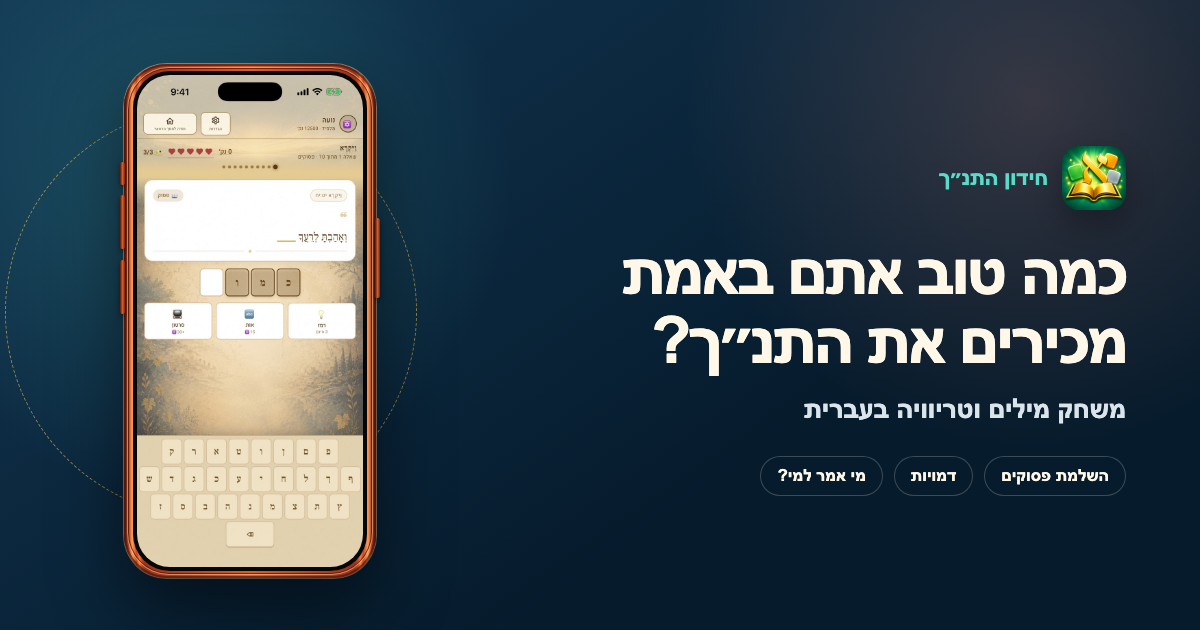
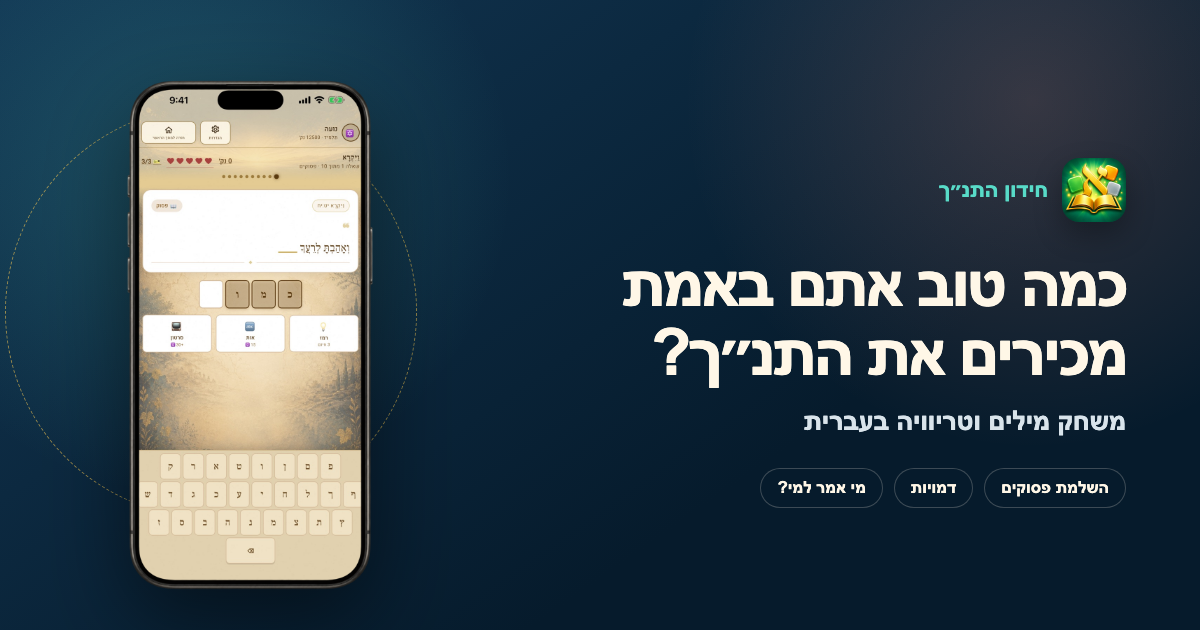
Replace Tanakh Quiz hero with realistic iPhone frame

diff --git a/tanakh-quiz/index.html b/tanakh-quiz/index.html
@@ -166,7 +166,7 @@ h1{
   transition:transform .16s ease,filter .16s ease;
 }
 .store-badge:hover{transform:translateY(-3px);filter:brightness(1.08)}
-.store-badge:focus-visible,.text-link:focus-visible,.site-nav a:focus-visible,.brand:focus-visible,.answer:focus-visible,.carousel-button:focus-visible,.carousel-dot:focus-visible{
+.store-badge:focus-visible,.text-link:focus-visible,.site-nav a:focus-visible,.brand:focus-visible,.answer:focus-visible{
   outline:3px solid var(--coral);
   outline-offset:4px;
 }
@@ -190,38 +190,33 @@ h1{
 .app-carousel{
   position:relative;
   z-index:2;
-  display:grid;
-  justify-items:center;
-  width:min(310px,76vw);
+  width:min(340px,80vw);
 }
-.iphone-shell{
+.app-carousel:focus-visible{outline:3px solid var(--coral);outline-offset:9px;border-radius:42px}
+.iphone-device{
   position:relative;
   width:100%;
-  aspect-ratio:49/100;
-  border-radius:17% / 8.35%;
-  background:
-    linear-gradient(90deg,#47150c 0%,#a83d19 1.7%,#ff9c59 3.2%,#c74a20 5%,#f17a38 6.2%,#c2481f 7.1%,#9a3218 8.3%,#d95d29 50%,#9a3218 91.7%,#c2481f 92.9%,#f17a38 93.8%,#c74a20 95%,#ff9c59 96.8%,#a83d19 98.3%,#47150c 100%);
-  box-shadow:0 34px 72px rgba(0,0,0,.45),0 0 0 1px rgba(255,190,137,.56),inset 0 0 0 2px rgba(78,22,10,.7);
-  isolation:isolate;
+  aspect-ratio:15/32;
+  filter:drop-shadow(0 34px 48px rgba(0,0,0,.5));
 }
-.iphone-shell::before{
-  content:"";
+.iphone-frame{
   position:absolute;
-  z-index:4;
-  inset:3px;
-  border:1px solid rgba(255,214,177,.5);
-  border-radius:inherit;
-  box-shadow:inset 0 0 0 1px rgba(71,20,9,.72),inset 0 0 15px rgba(255,180,110,.18);
+  z-index:3;
+  inset:0;
+  width:100%;
+  height:100%;
+  max-width:none;
+  object-fit:fill;
   pointer-events:none;
 }
 .iphone-screen{
   position:absolute;
   z-index:2;
-  inset:2.2% 5.102%;
+  inset:3.451% 4.167% 3.19%;
   overflow:hidden;
   border-radius:14.545% / 6.695%;
   background:#080808;
-  box-shadow:0 0 0 4px #050608,inset 0 0 14px rgba(0,0,0,.7);
+  box-shadow:inset 0 0 12px rgba(0,0,0,.3);
 }
 .device-slide{
   position:absolute;
@@ -233,47 +228,6 @@ h1{
 }
 .device-slide.is-active{opacity:1;visibility:visible}
 .device-slide img{width:100%;height:100%;object-fit:fill}
-.phone-button{
-  position:absolute;
-  z-index:1;
-  width:5px;
-  border-radius:3px;
-  background:linear-gradient(90deg,#4d180d,#db5d2a 52%,#6f2412);
-  box-shadow:0 2px 5px rgba(0,0,0,.45);
-}
-.phone-button--action{inset:19% auto auto -4px;height:4.6%}
-.phone-button--up{inset:25.5% auto auto -4px;height:10.5%}
-.phone-button--down{inset:38.2% auto auto -4px;height:10.5%}
-.phone-button--power{inset:30% -4px auto auto;height:15.5%}
-.slide-caption{
-  min-height:1.6em;
-  margin:15px 0 7px;
-  color:var(--cream-2);
-  font-size:.92rem;
-  font-weight:750;
-  text-align:center;
-}
-.carousel-controls{display:flex;align-items:center;justify-content:center;gap:7px;direction:rtl;width:max-content;max-width:calc(100vw - 36px);flex-wrap:wrap}
-.carousel-button,.carousel-dot{
-  display:inline-grid;
-  place-items:center;
-  min-width:44px;
-  min-height:44px;
-  padding:0;
-  border:1px solid rgba(255,247,231,.25);
-  border-radius:999px;
-  background:rgba(6,27,44,.78);
-  color:var(--cream);
-  cursor:pointer;
-  line-height:1;
-  transition:background .16s ease,border-color .16s ease,transform .16s ease;
-}
-.carousel-button:hover,.carousel-dot:hover{border-color:var(--teal);background:var(--navy-3);transform:translateY(-1px)}
-.carousel-button:disabled{cursor:default;opacity:.5;transform:none}
-.carousel-dots{display:flex;align-items:center;gap:3px}
-.carousel-dot::before{content:"";width:8px;height:8px;border-radius:50%;background:var(--muted)}
-.carousel-dot[aria-current="true"]::before{width:20px;background:var(--gold)}
-.carousel-dot[aria-current="true"]{border-color:rgba(244,197,82,.6)}
 .mode-strip{
   display:grid;
   grid-template-columns:repeat(4,minmax(0,1fr));
@@ -442,7 +396,7 @@ h1{
   .hero{grid-template-columns:1fr;min-height:auto;text-align:center}
   .hero-copy{display:flex;flex-direction:column;align-items:center}
   .store-row{justify-content:center}
-  .app-carousel{width:min(286px,72vw)}
+  .app-carousel{width:min(310px,76vw)}
   .proof-grid,.content-grid{grid-template-columns:1fr}
   .proof-copy{max-width:720px;margin:0 auto;text-align:center}
   .check-list{display:inline-grid;text-align:start}
@@ -455,11 +409,9 @@ h1{
   .site-header{padding-inline:15px}
   .brand span{display:none}
   .hero{padding-inline:18px}
-  .app-carousel{width:min(246px,72vw)}
+  .app-carousel{width:min(280px,80vw)}
   .orbit-one{width:290px;height:290px}
   .orbit-two{width:350px;height:350px}
-  .slide-caption{font-size:.86rem}
-  .carousel-controls{gap:3px}
   .mode-strip{grid-template-columns:repeat(2,minmax(0,1fr))}
   .mode{min-height:132px;padding:17px 12px}
   .answers{grid-template-columns:1fr}
@@ -493,10 +445,6 @@ h1{
   .download .store-badge,.download .store-badge img{width:100%;height:auto;max-height:58px;object-fit:contain}
   .site-footer{flex-direction:column;align-items:center;text-align:center}
   .site-footer div{justify-content:center}
-}
-@media(max-width:390px){
-  .carousel-controls{max-width:270px;flex-wrap:wrap}
-  .carousel-dots{flex-basis:100%;justify-content:center}
 }
 @media(prefers-reduced-motion:reduce){
   html{scroll-behavior:auto}
@@ -541,44 +489,27 @@ h1{
       <div class="phone-stage">
         <span class="orbit orbit-one" aria-hidden="true"></span>
         <span class="orbit orbit-two" aria-hidden="true"></span>
-        <div class="app-carousel" role="region" aria-roledescription="קרוסלה" aria-label="מסכים עדכניים מתוך חידון התנ״ך" data-app-carousel>
-          <div class="iphone-shell">
-            <span class="phone-button phone-button--action" aria-hidden="true"></span>
-            <span class="phone-button phone-button--up" aria-hidden="true"></span>
-            <span class="phone-button phone-button--down" aria-hidden="true"></span>
-            <span class="phone-button phone-button--power" aria-hidden="true"></span>
+        <div class="app-carousel" role="region" aria-roledescription="קרוסלה" aria-label="מסכים עדכניים מתוך חידון התנ״ך; המיקוד משהה את ההחלפה" tabindex="0" data-app-carousel>
+          <div class="iphone-device">
+            <img class="iphone-frame" src="/tanakh-quiz/assets/iphone-real-frame-v3.png" width="720" height="1536" alt="" fetchpriority="high" decoding="async">
             <div class="iphone-screen">
-              <figure class="device-slide is-active" role="group" aria-roledescription="שקופית" aria-label="1 מתוך 5" aria-hidden="false" data-caption="בחירת נושא, ספר ורמת קושי">
+              <figure class="device-slide is-active" role="group" aria-roledescription="שקופית" aria-label="1 מתוך 5" aria-hidden="false">
                 <img src="/tanakh-quiz/assets/ui-categories.jpg" width="660" height="1434" alt="מסך בחירת נושא וספר בחידון התנ״ך" fetchpriority="high" decoding="async">
               </figure>
-              <figure class="device-slide" role="group" aria-roledescription="שקופית" aria-label="2 מתוך 5" aria-hidden="true" data-caption="השלמת פסוקים ומשחקי מילים">
+              <figure class="device-slide" role="group" aria-roledescription="שקופית" aria-label="2 מתוך 5" aria-hidden="true">
                 <img src="/tanakh-quiz/assets/ui-gameplay.jpg" width="660" height="1434" alt="מסך השלמת פסוק בממשק החדש של חידון התנ״ך" decoding="async">
               </figure>
-              <figure class="device-slide" role="group" aria-roledescription="שקופית" aria-label="3 מתוך 5" aria-hidden="true" data-caption="תשובה מיידית, ניקוד והסבר">
-                <img src="/tanakh-quiz/assets/ui-correct.jpg" width="660" height="1434" loading="lazy" alt="מסך תשובה נכונה וניקוד בחידון התנ״ך" decoding="async">
+              <figure class="device-slide" role="group" aria-roledescription="שקופית" aria-label="3 מתוך 5" aria-hidden="true">
+                <img src="/tanakh-quiz/assets/ui-correct.jpg" width="660" height="1434" alt="מסך תשובה נכונה וניקוד בחידון התנ״ך" decoding="async">
               </figure>
-              <figure class="device-slide" role="group" aria-roledescription="שקופית" aria-label="4 מתוך 5" aria-hidden="true" data-caption="אתגר תנ״ך חדש בכל יום">
-                <img src="/tanakh-quiz/assets/ui-daily.jpg" width="660" height="1434" loading="lazy" alt="מסך האתגר היומי בחידון התנ״ך" decoding="async">
+              <figure class="device-slide" role="group" aria-roledescription="שקופית" aria-label="4 מתוך 5" aria-hidden="true">
+                <img src="/tanakh-quiz/assets/ui-daily.jpg" width="660" height="1434" alt="מסך האתגר היומי בחידון התנ״ך" decoding="async">
               </figure>
-              <figure class="device-slide" role="group" aria-roledescription="שקופית" aria-label="5 מתוך 5" aria-hidden="true" data-caption="טבלת מובילים ותחרות עם חברים">
-                <img src="/tanakh-quiz/assets/ui-leaderboard.jpg" width="660" height="1434" loading="lazy" alt="טבלת המובילים בחידון התנ״ך" decoding="async">
+              <figure class="device-slide" role="group" aria-roledescription="שקופית" aria-label="5 מתוך 5" aria-hidden="true">
+                <img src="/tanakh-quiz/assets/ui-leaderboard.jpg" width="660" height="1434" alt="טבלת המובילים בחידון התנ״ך" decoding="async">
               </figure>
             </div>
           </div>
-          <p class="slide-caption" data-carousel-caption>בחירת נושא, ספר ורמת קושי</p>
-          <div class="carousel-controls" aria-label="שליטה בתמונות האפליקציה">
-            <button class="carousel-button" type="button" data-carousel-toggle aria-label="השהיית החלפת התמונות" aria-pressed="false"><span data-carousel-toggle-icon aria-hidden="true">Ⅱ</span></button>
-            <button class="carousel-button" type="button" data-carousel-prev aria-label="צילום מסך קודם"><span aria-hidden="true">→</span></button>
-            <button class="carousel-button" type="button" data-carousel-next aria-label="צילום מסך הבא"><span aria-hidden="true">←</span></button>
-            <div class="carousel-dots" aria-label="בחירת צילום מסך">
-              <button class="carousel-dot" type="button" data-carousel-dot="0" aria-label="הצגת צילום מסך 1 מתוך 5" aria-current="true"></button>
-              <button class="carousel-dot" type="button" data-carousel-dot="1" aria-label="הצגת צילום מסך 2 מתוך 5"></button>
-              <button class="carousel-dot" type="button" data-carousel-dot="2" aria-label="הצגת צילום מסך 3 מתוך 5"></button>
-              <button class="carousel-dot" type="button" data-carousel-dot="3" aria-label="הצגת צילום מסך 4 מתוך 5"></button>
-              <button class="carousel-dot" type="button" data-carousel-dot="4" aria-label="הצגת צילום מסך 5 מתוך 5"></button>
-            </div>
-          </div>
-          <p class="sr-only" aria-live="polite" aria-atomic="true" data-carousel-status></p>
         </div>
       </div>
     </section>
@@ -734,36 +665,21 @@ h1{
   if (!carousel) return;
 
   var slides = Array.prototype.slice.call(carousel.querySelectorAll('.device-slide'));
-  var dots = Array.prototype.slice.call(carousel.querySelectorAll('[data-carousel-dot]'));
-  var caption = carousel.querySelector('[data-carousel-caption]');
-  var status = carousel.querySelector('[data-carousel-status]');
-  var toggle = carousel.querySelector('[data-carousel-toggle]');
-  var toggleIcon = carousel.querySelector('[data-carousel-toggle-icon]');
-  var previous = carousel.querySelector('[data-carousel-prev]');
-  var next = carousel.querySelector('[data-carousel-next]');
+  if (!slides.length) return;
   var motion = window.matchMedia('(prefers-reduced-motion: reduce)');
   var current = 0;
   var timer = 0;
-  var userPaused = false;
   var interactionPaused = false;
   var inView = true;
   var interval = 7000;
 
-  function showSlide(index,userInitiated){
+  function showSlide(index){
     current = (index + slides.length) % slides.length;
     slides.forEach(function(slide,slideIndex){
       var active = slideIndex === current;
       slide.classList.toggle('is-active',active);
       slide.setAttribute('aria-hidden',active ? 'false' : 'true');
     });
-    dots.forEach(function(dot,dotIndex){
-      if (dotIndex === current) dot.setAttribute('aria-current','true');
-      else dot.removeAttribute('aria-current');
-    });
-
-    var text = slides[current].getAttribute('data-caption') || '';
-    caption.textContent = text;
-    if (userInitiated) status.textContent = 'צילום ' + (current + 1) + ' מתוך ' + slides.length + ': ' + text;
   }
 
   function stop(){
@@ -773,52 +689,18 @@ h1{
   }
 
   function canPlay(){
-    return !motion.matches && !userPaused && !interactionPaused && inView && !document.hidden;
+    return slides.length > 1 && !motion.matches && !interactionPaused && inView && !document.hidden;
   }
 
   function schedule(){
     stop();
     if (!canPlay()) return;
     timer = window.setTimeout(function(){
-      showSlide(current + 1,false);
+      showSlide(current + 1);
       schedule();
     },interval);
   }
 
-  function updateToggle(){
-    if (motion.matches){
-      toggle.disabled = true;
-      toggle.setAttribute('aria-label','החלפת תמונות אוטומטית מושבתת לפי העדפת התנועה');
-      toggle.setAttribute('aria-pressed','false');
-      toggleIcon.textContent = '▶';
-      return;
-    }
-    toggle.disabled = false;
-    toggle.setAttribute('aria-pressed',userPaused ? 'true' : 'false');
-    toggle.setAttribute('aria-label',userPaused ? 'הפעלת החלפת התמונות' : 'השהיית החלפת התמונות');
-    toggleIcon.textContent = userPaused ? '▶' : 'Ⅱ';
-  }
-
-  function navigate(index){
-    userPaused = true;
-    stop();
-    updateToggle();
-    showSlide(index,true);
-  }
-
-  toggle.addEventListener('click',function(){
-    userPaused = !userPaused;
-    updateToggle();
-    schedule();
-  });
-  previous.addEventListener('click',function(){navigate(current - 1)});
-  next.addEventListener('click',function(){navigate(current + 1)});
-  dots.forEach(function(dot){
-    dot.addEventListener('click',function(){navigate(Number(dot.getAttribute('data-carousel-dot')))});
-  });
-
-  carousel.addEventListener('mouseenter',function(){interactionPaused = true;stop()});
-  carousel.addEventListener('mouseleave',function(){interactionPaused = false;schedule()});
   carousel.addEventListener('focusin',function(){interactionPaused = true;stop()});
   carousel.addEventListener('focusout',function(event){
     if (carousel.contains(event.relatedTarget)) return;
@@ -834,15 +716,10 @@ h1{
     },{threshold:.25}).observe(carousel);
   }
 
-  function motionChanged(){
-    updateToggle();
-    schedule();
-  }
-  if (motion.addEventListener) motion.addEventListener('change',motionChanged);
-  else if (motion.addListener) motion.addListener(motionChanged);
+  if (motion.addEventListener) motion.addEventListener('change',schedule);
+  else if (motion.addListener) motion.addListener(schedule);
 
-  showSlide(0,false);
-  updateToggle();
+  showSlide(0);
   schedule();
 })();
 </script>

diff --git a/tests/verify_tanakh_marketing.py b/tests/verify_tanakh_marketing.py
@@ -182,10 +182,23 @@ def main() -> int:
     for asset in expected_ui_assets:
         if f"/tanakh-quiz/assets/{asset}" not in source:
             fail(errors, f"tanakh-quiz/index.html: missing current UI asset {asset!r}")
+    frame_asset = ROOT / "tanakh-quiz" / "assets" / "iphone-real-frame-v3.png"
+    if "/tanakh-quiz/assets/iphone-real-frame-v3.png" not in source or not frame_asset.is_file():
+        fail(errors, "tanakh-quiz/index.html: missing photorealistic iPhone frame")
     if source.count('class="device-slide') != 5:
         fail(errors, "tanakh-quiz/index.html: hero carousel must contain five UI screens")
     if "var interval = 7000" not in source:
         fail(errors, "tanakh-quiz/index.html: hero carousel must use the slower seven-second interval")
+    for obsolete_control in (
+        "carousel-controls",
+        "carousel-button",
+        "carousel-dot",
+        "slide-caption",
+        "iphone-shell",
+        "phone-button",
+    ):
+        if obsolete_control in source:
+            fail(errors, f"tanakh-quiz/index.html: obsolete visible carousel UI remains: {obsolete_control}")
     if "feature-graphic.jpg" in source:
         fail(errors, "tanakh-quiz/index.html: obsolete feature graphic is still referenced")
 
